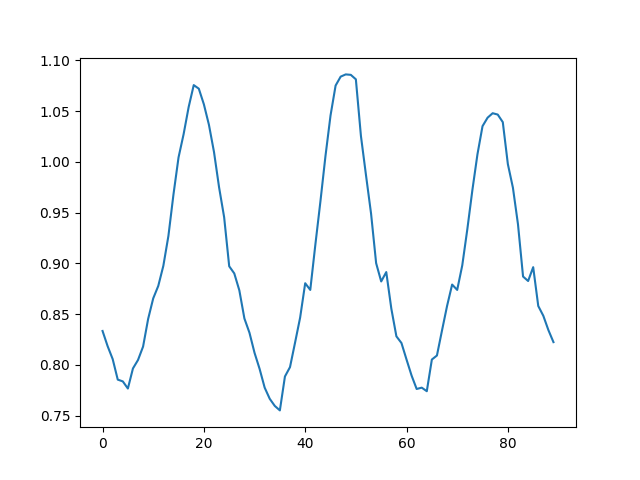
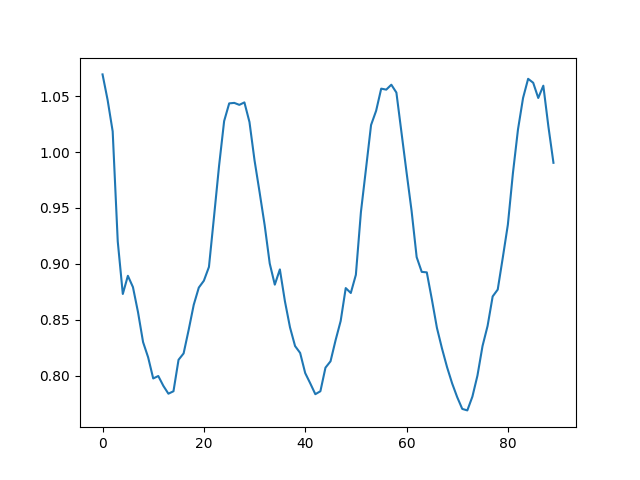
teste 4

diff --git a/analogIn.py b/analogIn.py
@@ -20,12 +20,13 @@ j = 0
 while(True):
     i = 0
     while i < 60:
+        readData()
+        i+=1
         now = time()
-        if now - old >= 1/hz:
-            old = now
+        while now - old < 1/hz:
             now = time()
-            readData()
-            i+=1
+            pass
+        old = now
     if j == 2:
         break
     j+=1
